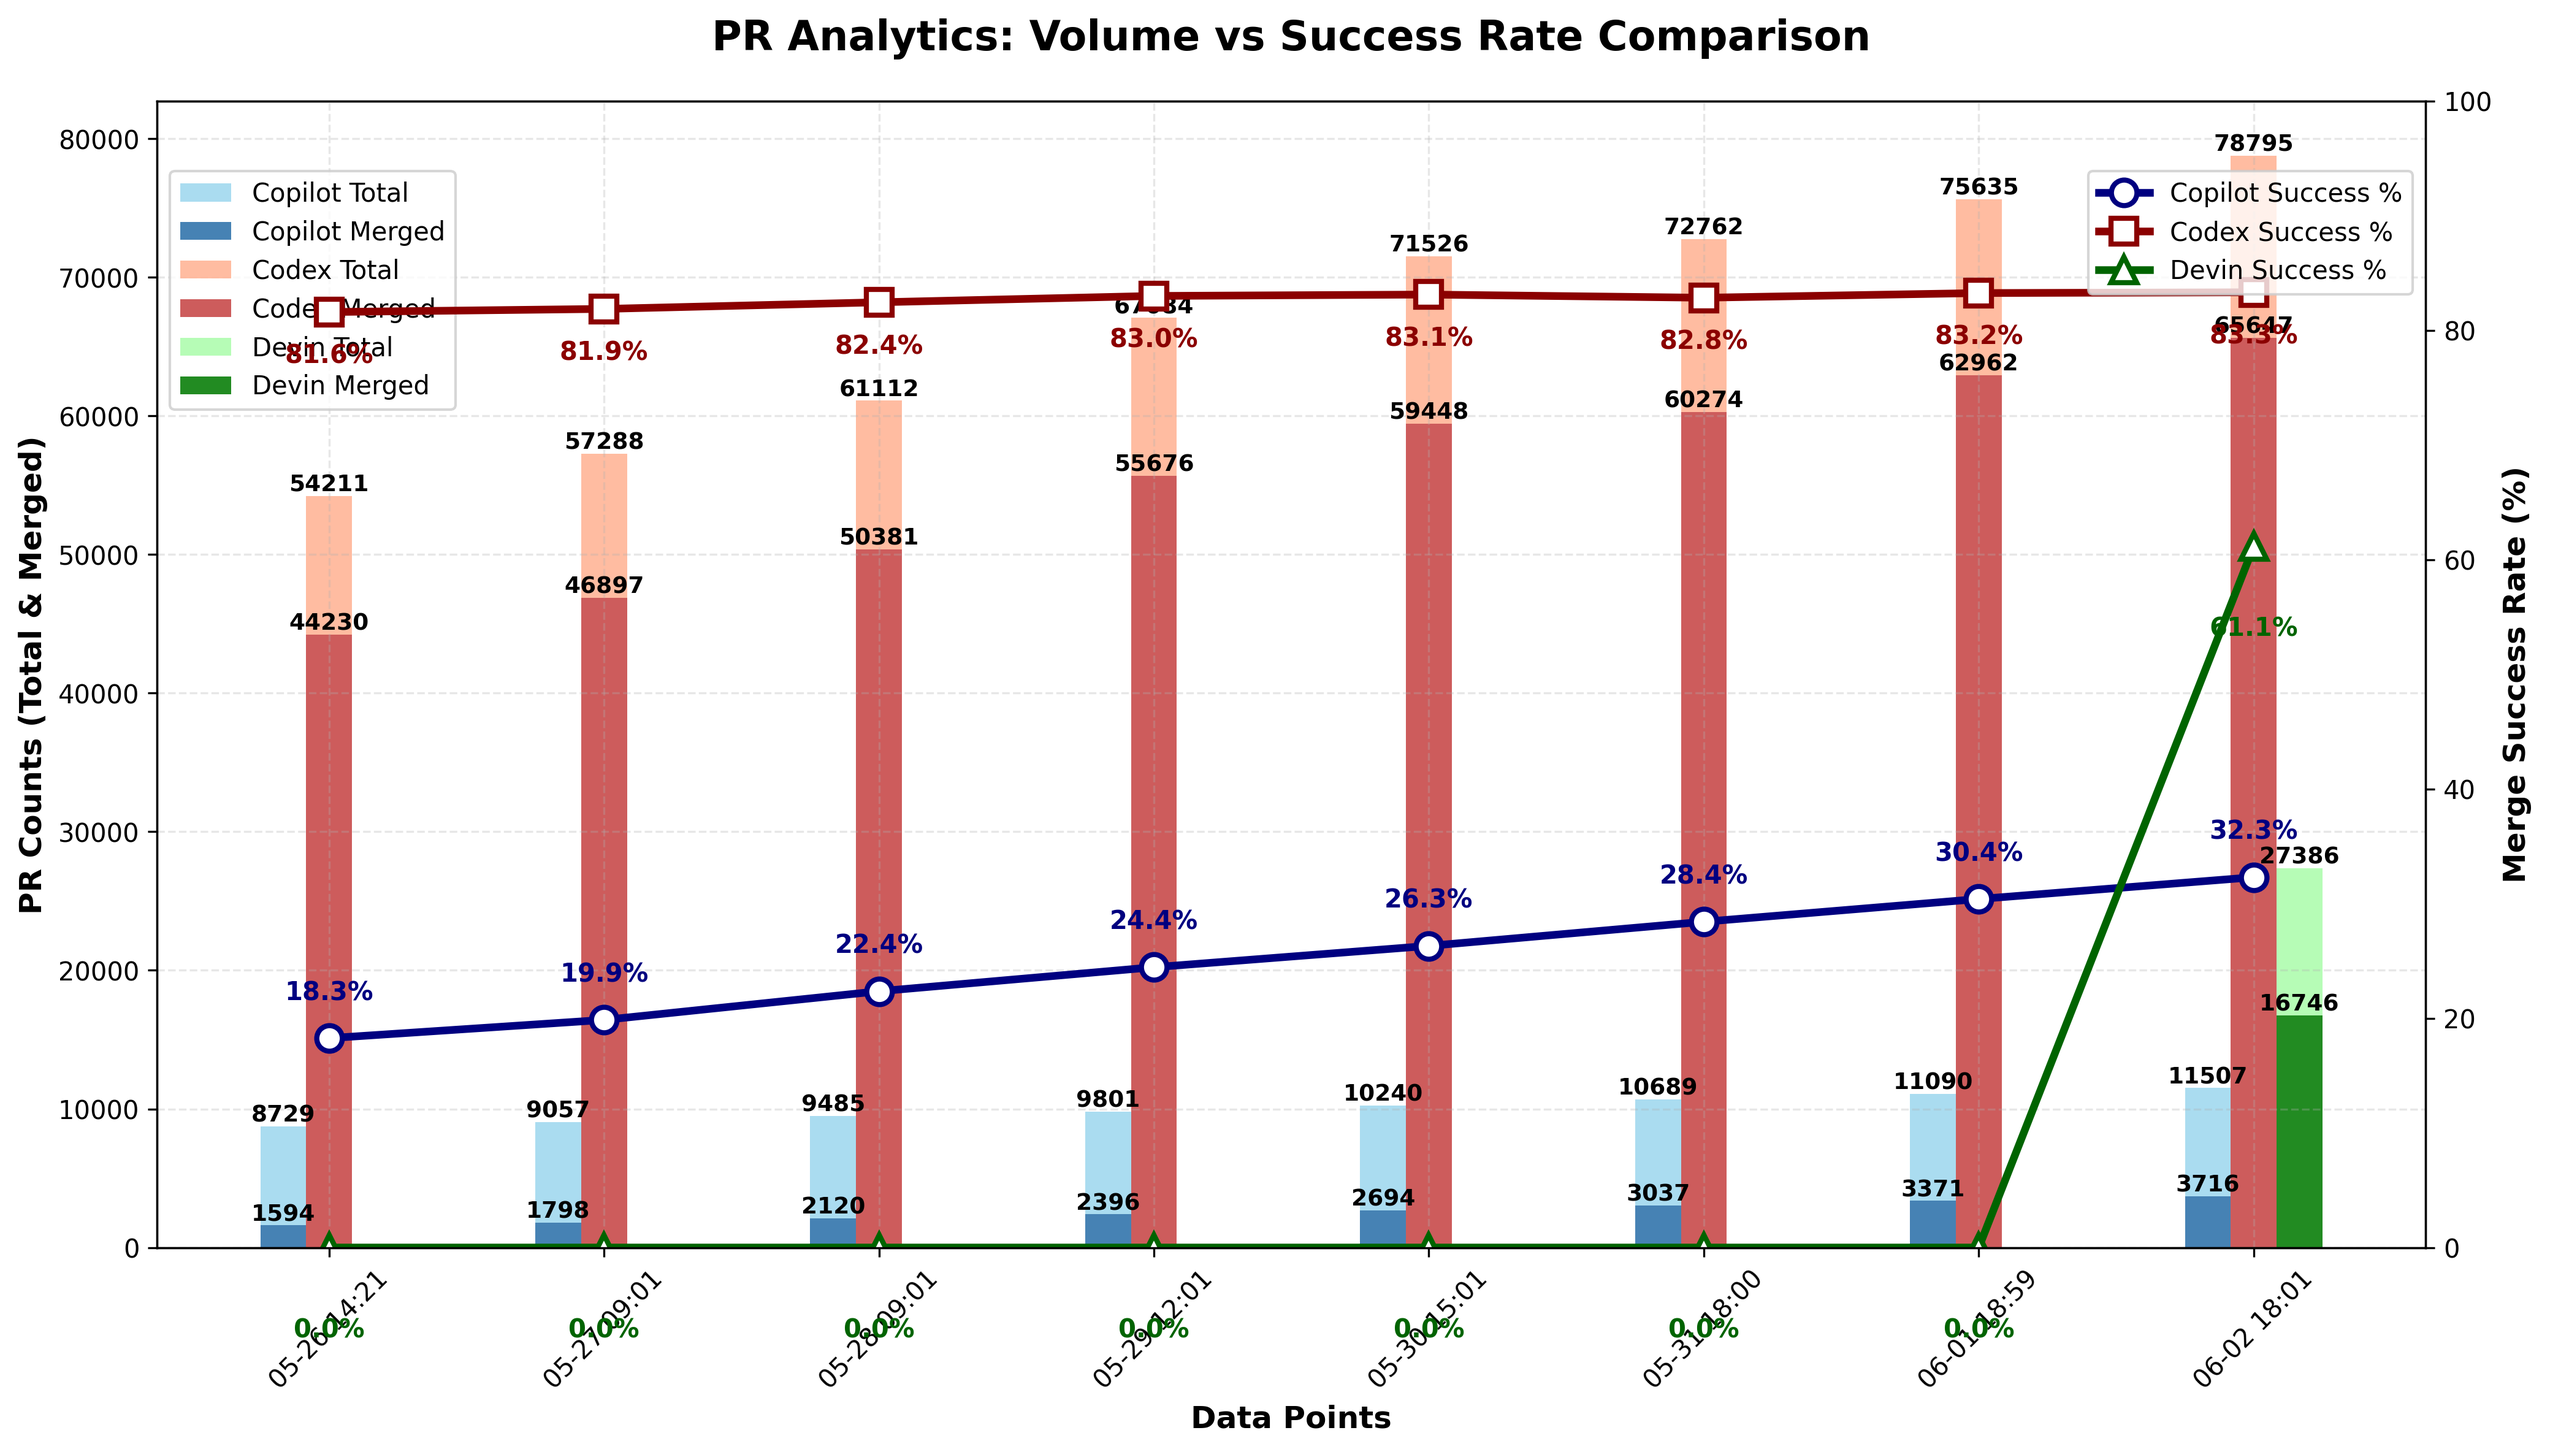
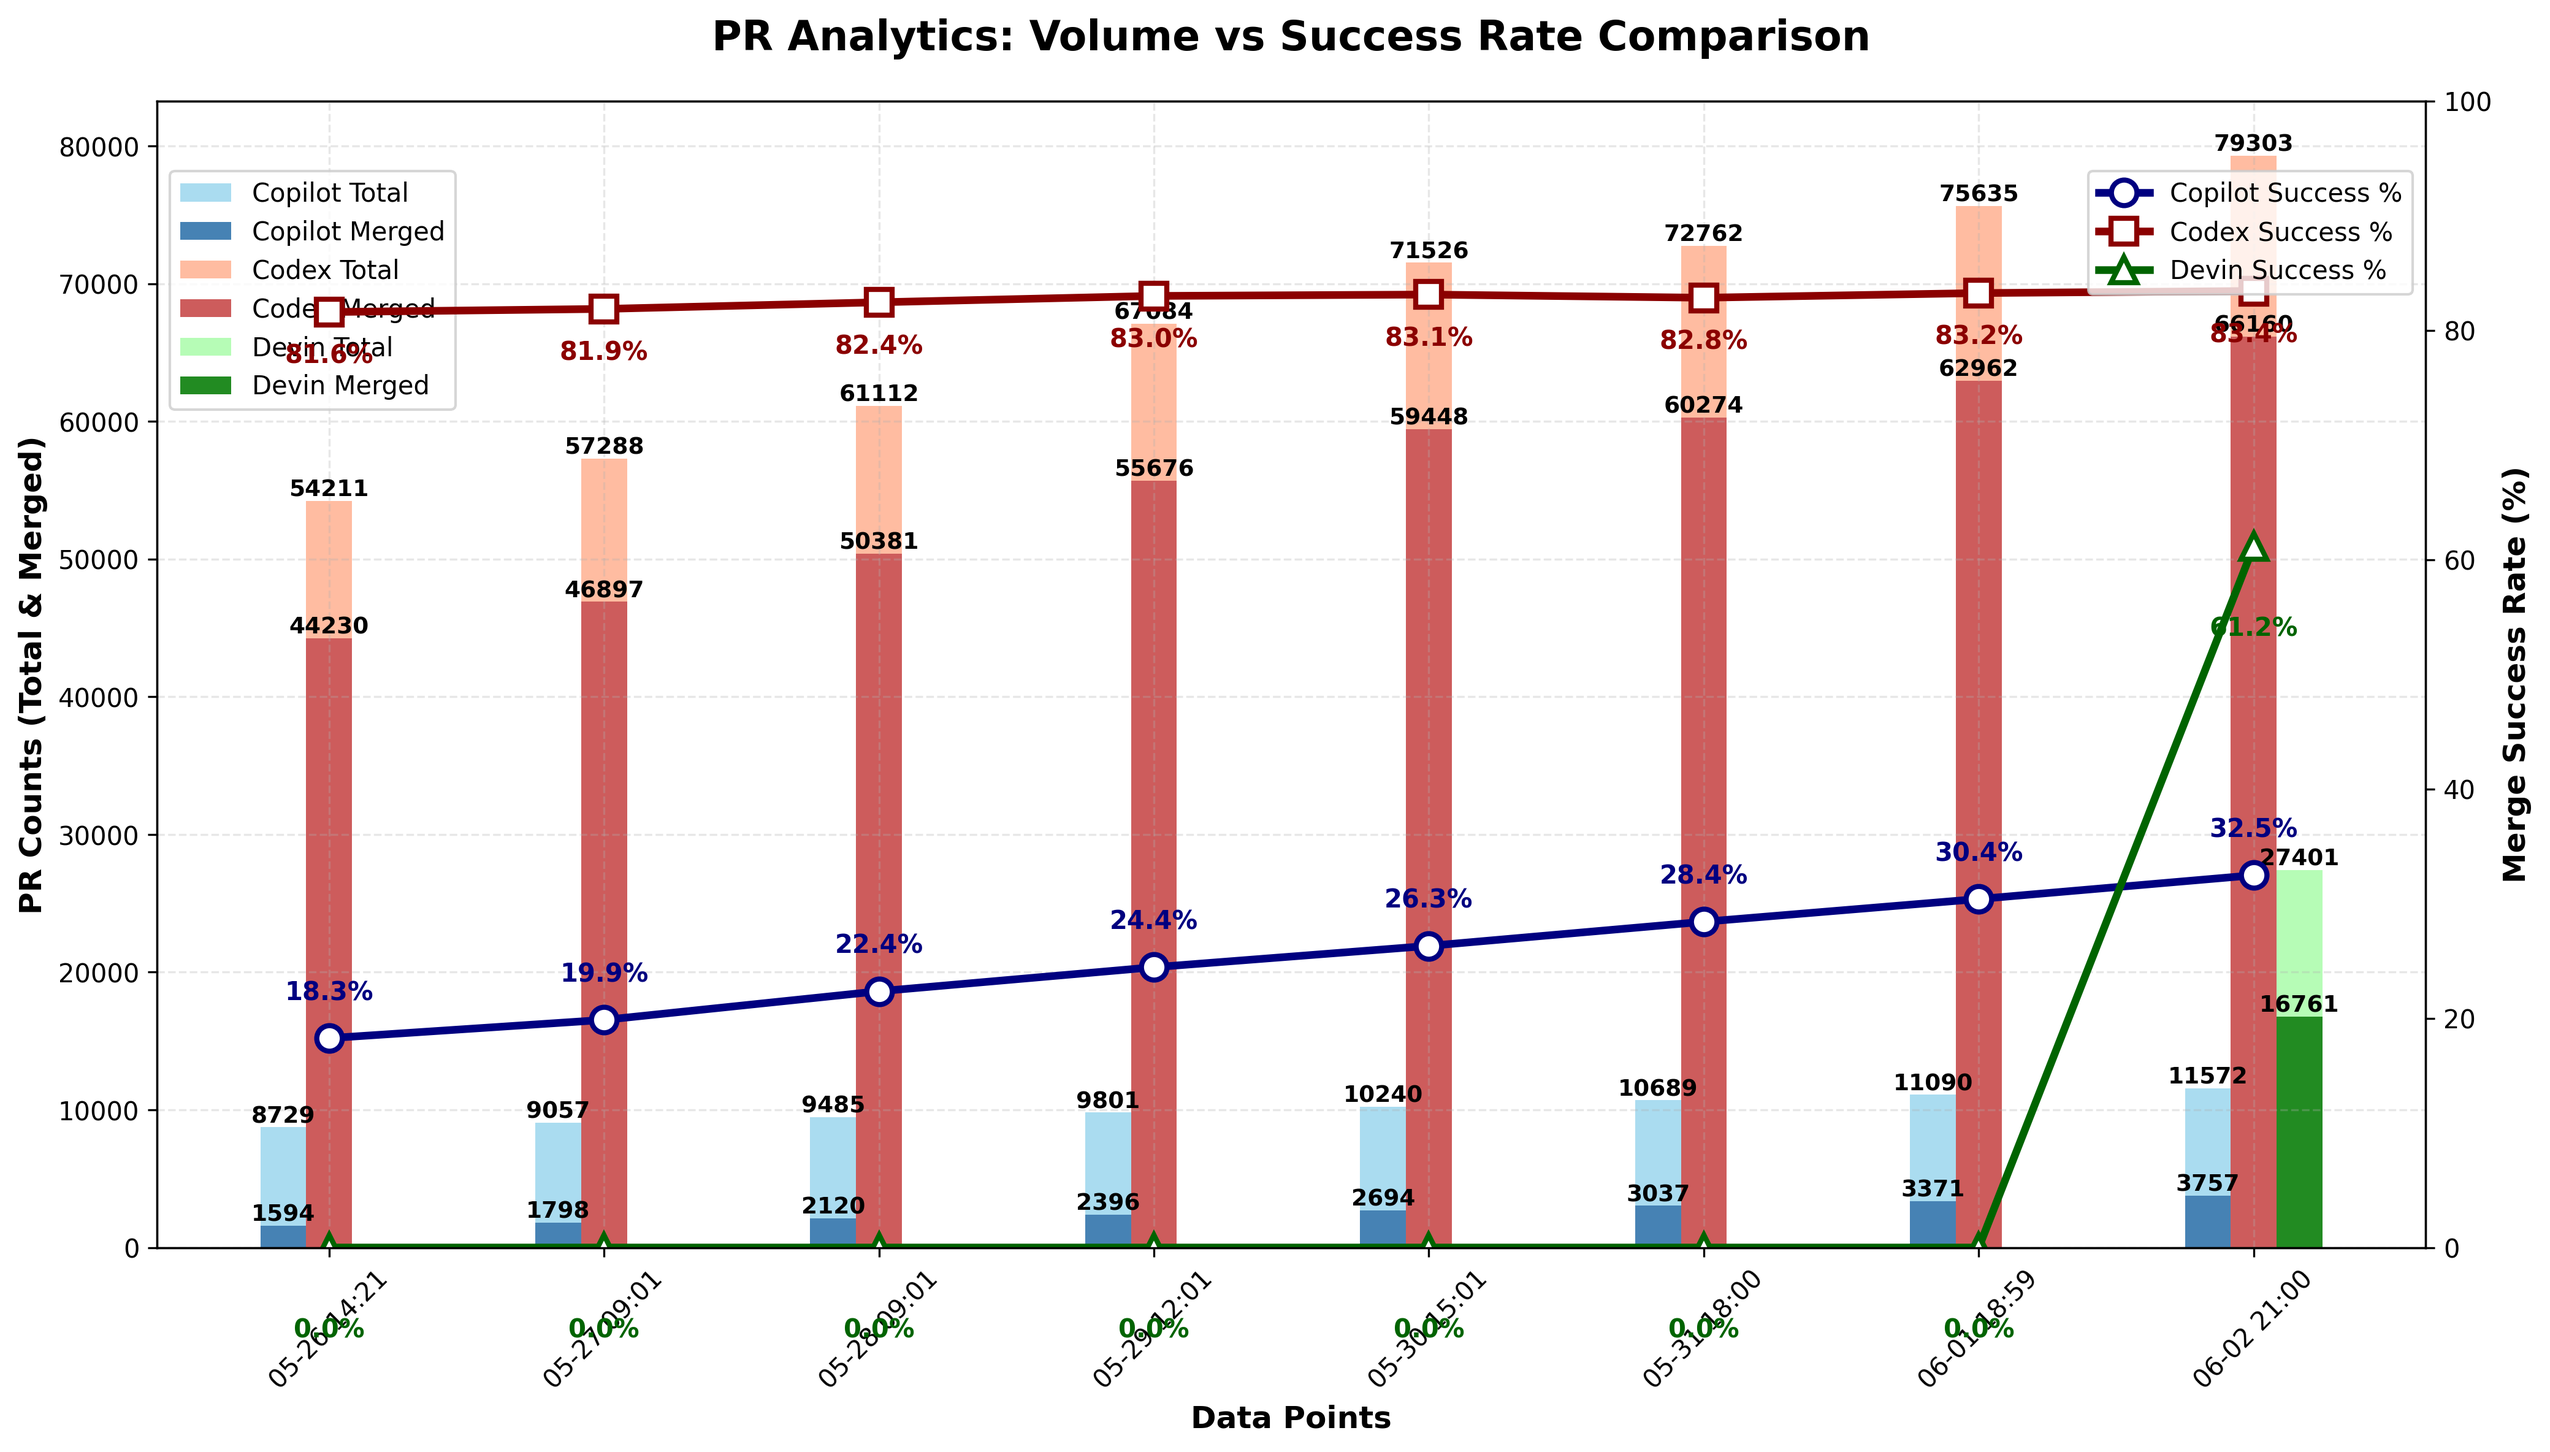
chore: update PR‑approval chart

diff --git a/docs/index.html b/docs/index.html
@@ -46,22 +46,22 @@
                 <tbody>
                     <tr>
                         <td>Copilot</td>
-                        <td>11,507</td>
-                        <td>3,716</td>
-                        <td>32.29%</td>
+                        <td>11,572</td>
+                        <td>3,757</td>
+                        <td>32.47%</td>
                     </tr>
                     <tr>
                         <td>Codex</td>
-                        <td>78,795</td>
-                        <td>65,647</td>
-                        <td>83.31%</td>
+                        <td>79,303</td>
+                        <td>66,160</td>
+                        <td>83.43%</td>
                     </tr>
                 </tbody>
             </table>
         </section>
 
         <footer>
-            <p>Last updated: <span id="last-updated">June 02, 2025 18:01 UTC</span></p>
+            <p>Last updated: <span id="last-updated">June 02, 2025 21:01 UTC</span></p>
             <p><a href="https://github.com/aavetis/ai-pr-watcher">View on GitHub</a></p>
         </footer>
     </div>

diff --git a/README.md b/README.md
@@ -21,6 +21,6 @@ Explore the GitHub search queries used:
 
 | Project | Total PRs | Merged PRs | Merge Rate |
 | ------- | --------- | ---------- | ---------- |
-| Copilot | 11,507 | 3,716 | 32.29% |
-| Codex   | 78,795 | 65,647 | 83.31% |
-| Devin   | 27,386 | 16,746 | 61.15% |
+| Copilot | 11,572 | 3,757 | 32.47% |
+| Codex   | 79,303 | 66,160 | 83.43% |
+| Devin   | 27,401 | 16,761 | 61.17% |
